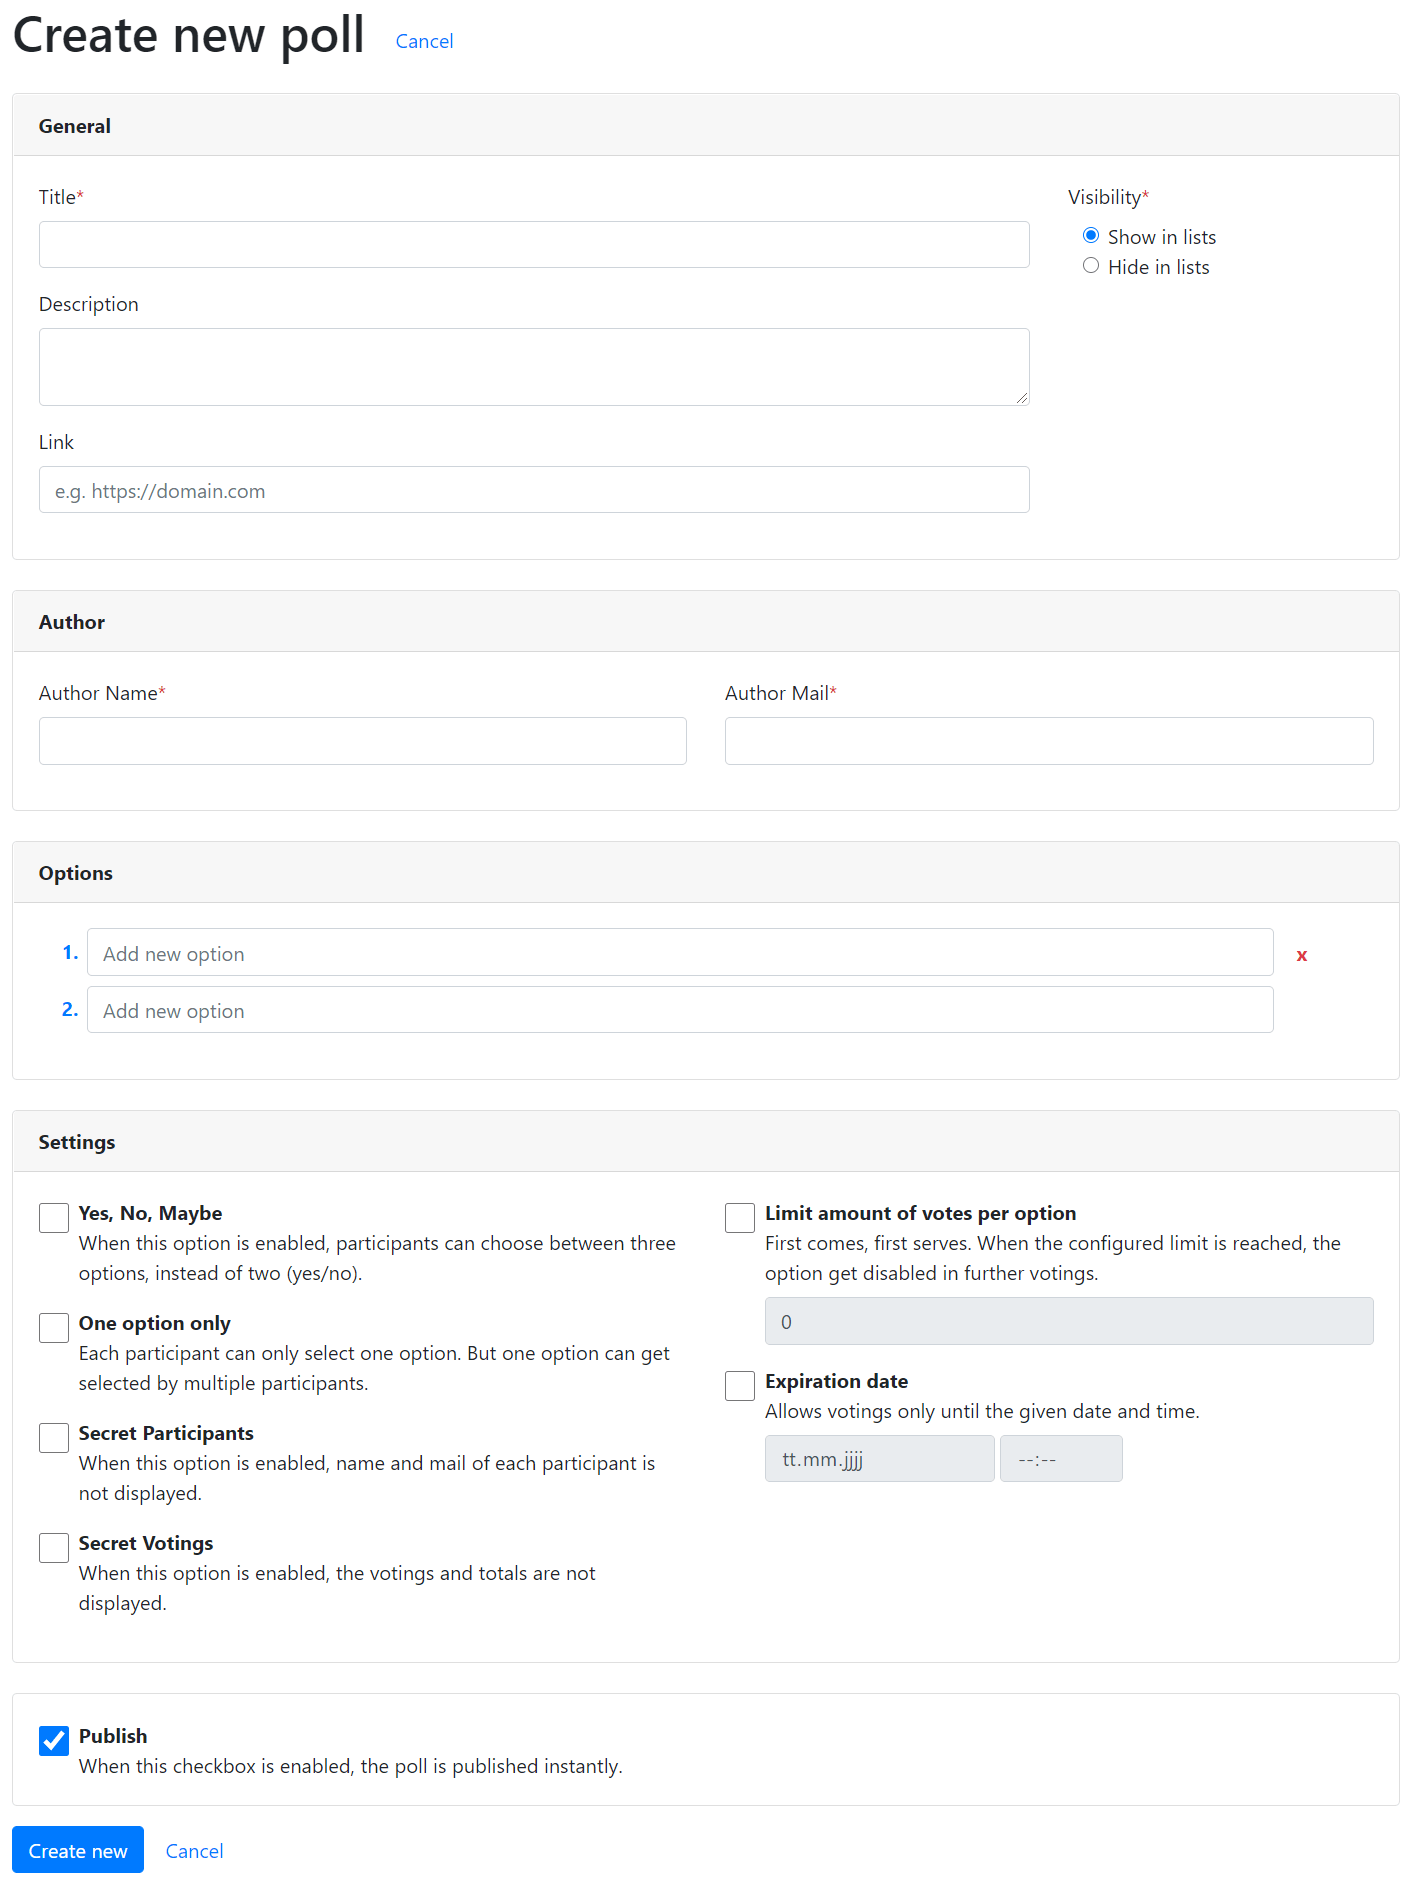
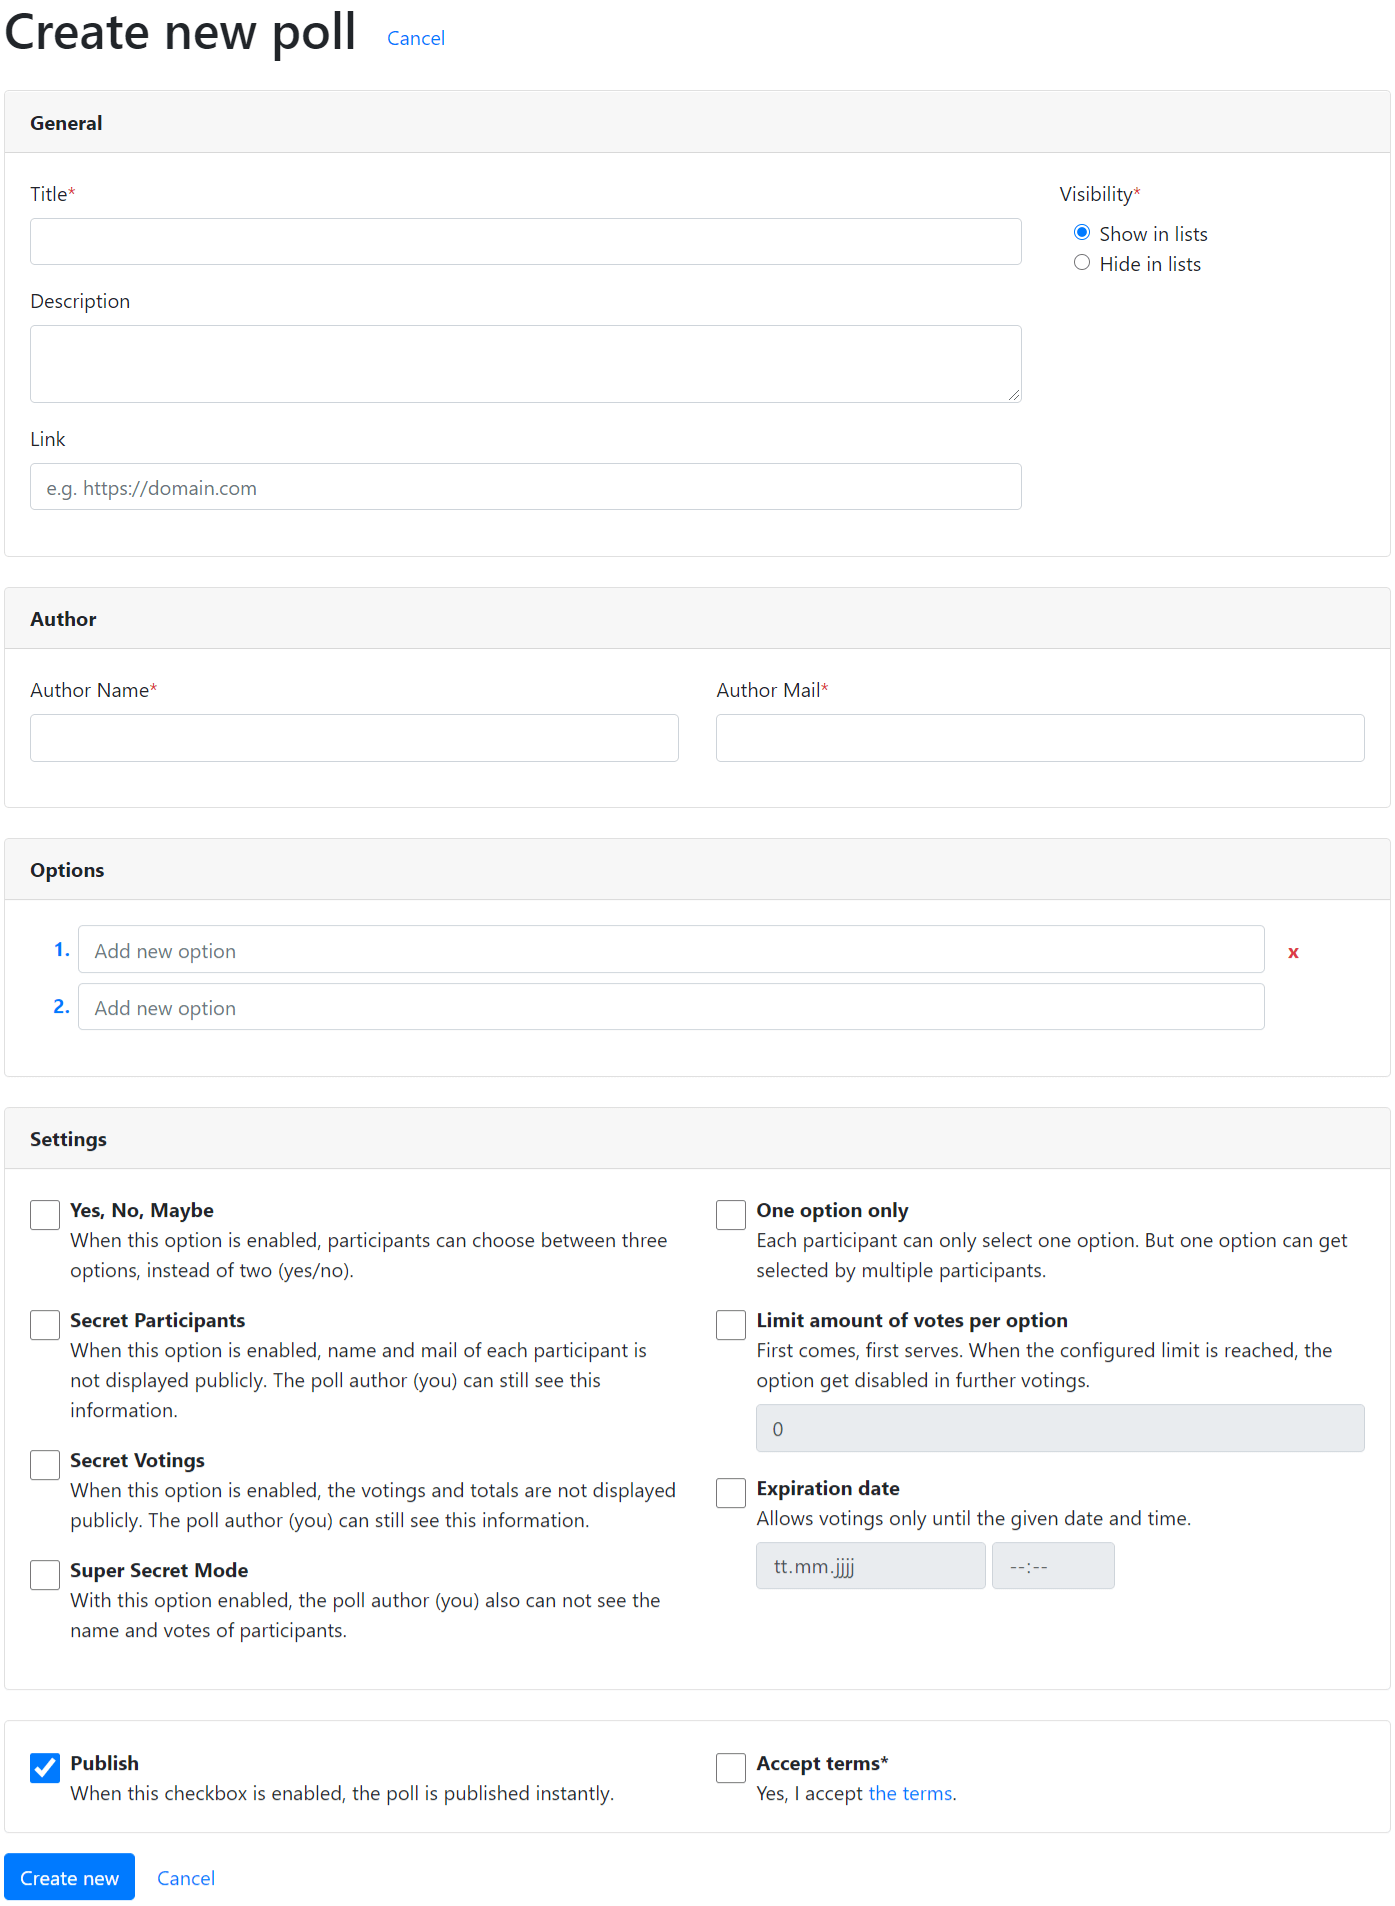
[FEATURE] Add new poll setting "Super Secret Mode"
When enabled, also the poll author (and admins) can not see the name of participants and their votes.

- Added new setting "setting_super_secret_mode" to model, TCA and SQL
- Moved "settingOneOptionOnly" to right column
- When "Super Secret Mode" is on, both secret settings, have to be true as well
    - Added new JS module "force-checked" to auto enable/disable related checkboxes
    - Added validation (Extbase)
- Added display condition to "votes" IRRE field in backend, to hide votes when "setting_super_secret_mode" is 1
- Adjusted notice alert box in show action
- Added new icon in list action, when settingSuperSecretMode is enabled
    - new CSS class ".icon-red"

diff --git a/Resources/Private/Partials/Poll/FormFields.html b/Resources/Private/Partials/Poll/FormFields.html
@@ -107,17 +107,6 @@
 							<f:translate key="poll.settingTristateCheckbox.description" />
 						</label>
 					</div>
-
-					<div class="form-check mb-3">
-						<f:form.checkbox property="settingOneOptionOnly" value="1" checked="{poll.settingOneOptionOnly} == 1" class="form-check-input mr-3 larger" id="t3oodle-poll-settingOneOptionOnly" />
-						<label class="form-check-label" for="t3oodle-poll-settingOneOptionOnly">
-							<strong><f:translate key="poll.settingOneOptionOnly.title" /></strong>
-							<f:if condition="{poll.votes -> f:count()} > 0"> <span class="badge badge-warning mx-2 text-uppercase"><f:translate key="label.caution" /></span></f:if>
-							<br>
-							<f:translate key="poll.settingOneOptionOnly.description" />
-						</label>
-					</div>
-
 					<div class="form-check mb-3">
 						<f:form.checkbox property="settingSecretParticipants" value="1" checked="{poll.settingSecretParticipants} == 1" class="form-check-input mr-3 larger" id="t3oodle-poll-settingSecretParticipants" />
 						<label class="form-check-label" for="t3oodle-poll-settingSecretParticipants">
@@ -132,8 +121,26 @@
 							<f:translate key="poll.settingSecretVotings.description" />
 						</label>
 					</div>
+					<div class="form-check mb-3">
+						<f:form.checkbox property="settingSuperSecretMode" value="1" checked="{poll.settingSuperSecretMode} == 1" class="form-check-input mr-3 larger" id="t3oodle-poll-settingSuperSecretMode" data="{'force-checked':'#t3oodle-poll-settingSecretParticipants, #t3oodle-poll-settingSecretVotings'}" />
+						<label class="form-check-label" for="t3oodle-poll-settingSuperSecretMode">
+							<strong><f:translate key="poll.settingSuperSecretMode.title" /></strong><br>
+							<f:translate key="poll.settingSuperSecretMode.description" />
+
+							<f:render partial="FormFieldErrors" arguments="{for: 'poll.settingSuperSecretMode'}" />
+						</label>
+					</div>
 				</div>
 				<div class="col-md-6">
+					<div class="form-check mb-3">
+						<f:form.checkbox property="settingOneOptionOnly" value="1" checked="{poll.settingOneOptionOnly} == 1" class="form-check-input mr-3 larger" id="t3oodle-poll-settingOneOptionOnly" />
+						<label class="form-check-label" for="t3oodle-poll-settingOneOptionOnly">
+							<strong><f:translate key="poll.settingOneOptionOnly.title" /></strong>
+							<f:if condition="{poll.votes -> f:count()} > 0"> <span class="badge badge-warning mx-2 text-uppercase"><f:translate key="label.caution" /></span></f:if>
+							<br>
+							<f:translate key="poll.settingOneOptionOnly.description" />
+						</label>
+					</div>
 					<div class="form-check mb-3">
 						<f:form.checkbox name="enableSettingMaxVotesPerOption" value="1" checked="{poll.settingMaxVotesPerOption} > 0" class="form-check-input mr-3 larger" id="t3oodle-poll-enableSettingMaxVotesPerOption" />
 						<label class="form-check-label" for="t3oodle-poll-enableSettingMaxVotesPerOption">

diff --git a/Resources/Private/Partials/Poll/Voting.html b/Resources/Private/Partials/Poll/Voting.html
@@ -11,16 +11,24 @@
                 <div class="alert alert-info">
                     <strong class="d-block">
                         <t3oodle:svg class="mx-1 alert-info" path="Icons/user-secret-solid.svg" />
-                        <f:translate key="label.secret.title" />
+                        <f:variable name="suffix"><f:if condition="{poll.settingSuperSecretMode}"><f:translate key="label.super" /> </f:if></f:variable>
+                        <f:translate key="label.secret.title" arguments="{0 : '{suffix}'}" />
                     </strong>
-                    <f:if condition="{poll.settingSecretVotings} && {poll.settingSecretParticipants}">
-                        <f:then><f:translate key="label.secret.all" /></f:then>
+                    <f:if condition="{poll.settingSuperSecretMode}">
+                        <f:then>
+                            <f:translate key="label.secret.superSecretMode" />
+                        </f:then>
                         <f:else>
-                            <f:if condition="{poll.settingSecretVotings}">
-                                <f:translate key="label.secret.votings" />
-                            </f:if>
-                            <f:if condition="{poll.settingSecretParticipants}">
-                                <f:translate key="label.secret.participants" />
+                            <f:if condition="{poll.settingSecretVotings} && {poll.settingSecretParticipants}">
+                                <f:then><f:translate key="label.secret.all" /></f:then>
+                                <f:else>
+                                    <f:if condition="{poll.settingSecretVotings}">
+                                        <f:translate key="label.secret.votings" />
+                                    </f:if>
+                                    <f:if condition="{poll.settingSecretParticipants}">
+                                        <f:translate key="label.secret.participants" />
+                                    </f:if>
+                                </f:else>
                             </f:if>
                         </f:else>
                     </f:if>

diff --git a/Resources/Private/Templates/Poll/List.html b/Resources/Private/Templates/Poll/List.html
@@ -109,9 +109,18 @@
                         <t3oodle:svg class="mx-1 icon-light" path="Icons/clock-regular.svg"
                                      title="{f:translate(key:'label.pollExpireNotice', arguments:'{0:\'{poll.settingVotingExpiresAt -> f:format.date(format:\"{settings.dateTimeFormat}\")}\'}')}" />
                     </f:if>
-                    <f:if condition="{poll.settingSecretVotings} || {poll.settingSecretParticipants}">
-                        <t3oodle:svg class="mx-1 icon-light" path="Icons/user-secret-solid.svg"
-                                     title="{f:translate(key:'label.pollSecretNotice')}"/>
+
+                    <f:if condition="{poll.settingSuperSecretMode}">
+                        <f:then>
+                            <t3oodle:svg class="mx-1 icon-red" path="Icons/user-secret-solid.svg"
+                                         title="{f:translate(key:'label.pollSuperSecretNotice')}"/>
+                        </f:then>
+                        <f:else>
+                            <f:if condition="{poll.settingSecretVotings} || {poll.settingSecretParticipants}">
+                                <t3oodle:svg class="mx-1 icon-light" path="Icons/user-secret-solid.svg"
+                                             title="{f:translate(key:'label.pollSecretNotice')}"/>
+                            </f:if>
+                        </f:else>
                     </f:if>
                 </f:section>
             </td>

diff --git a/Resources/Public/JavaScript/t3oodle/force-checked.js b/Resources/Public/JavaScript/t3oodle/force-checked.js
@@ -1,0 +1,34 @@
+'use strict';
+var tx_t3oodle = tx_t3oodle || {};
+
+tx_t3oodle._applyForceChecked = function (masterCheckbox, isInit) {
+  var slaveCheckboxes = document.querySelectorAll(masterCheckbox.dataset.forceChecked);
+  for (var i = 0; i < slaveCheckboxes.length; i++) {
+    var slaveCheckbox = slaveCheckboxes[i];
+    if (masterCheckbox.checked) {
+      slaveCheckbox.checked = true;
+    }
+  }
+};
+
+tx_t3oodle['force-checked'] = function (selector) {
+  let items = document.querySelectorAll(selector);
+  for (let i = 0; i < items.length; i++) {
+    let masterCheckbox = items[i];
+    masterCheckbox.addEventListener('change', function (event) {
+      tx_t3oodle._applyForceChecked(event.target);
+    });
+    tx_t3oodle._applyForceChecked(masterCheckbox, true);
+
+    let slaveCheckboxes = document.querySelectorAll(masterCheckbox.dataset.forceChecked);
+    for (let i2 = 0; i2 < slaveCheckboxes.length; i2++) {
+      let slaveCheckbox = slaveCheckboxes[i2];
+      slaveCheckbox.addEventListener('change', function (event) {
+        if (!event.target.checked && masterCheckbox.checked) {
+          masterCheckbox.checked = false;
+        }
+      });
+    }
+  }
+};
+

diff --git a/Resources/Public/JavaScript/t3oodle.js b/Resources/Public/JavaScript/t3oodle.js
@@ -36,6 +36,7 @@ var tx_t3oodle = {
     this.loadScriptBySelector('confirmation', '*[data-confirm]');
     this.loadScriptBySelector('remember', '*[data-remember]');
     this.loadScriptBySelector('conditional-inputs', 'input[data-bind-disable]');
+    this.loadScriptBySelector('force-checked', 'input[data-force-checked]');
     this.loadScriptBySelector('voting-box', '.t3oodle-voting-checkbox');
     this.loadScriptBySelector('utils-options', '.t3oodle-new-poll-option, .t3oodle-options-per-day', function () {
       tx_t3oodle.loadScriptBySelector('options-simple', '.t3oodle-new-poll-option');

diff --git a/Resources/Public/Stylesheets/t3oodle.css b/Resources/Public/Stylesheets/t3oodle.css
@@ -204,6 +204,9 @@ ol.t3oodle-options-per-day > li:last-child button.t3oodle-poll-option-remove {
 .tx-t3oodle .icon-light {
     color: #888;
 }
+.tx-t3oodle .icon-red {
+    color: var(--red);
+}
 
 .tx-t3oodle .date-group {
     line-height: 1;

diff --git a/Configuration/TCA/tx_t3oodle_domain_model_poll.php b/Configuration/TCA/tx_t3oodle_domain_model_poll.php
@@ -50,7 +50,7 @@ return [
         ],
         'settings' => [
             'showitem' => 'setting_tristate_checkbox, --linebreak--, setting_max_votes_per_option, --linebreak--, ' .
-                'setting_one_option_only, --linebreak--, setting_secret_participants, setting_secret_votings, ' .
+                'setting_one_option_only, --linebreak--, setting_secret_participants, setting_secret_votings, setting_super_secret_mode, ' .
                 '--linebreak--, setting_voting_expires_date, setting_voting_expires_time'
         ],
         'publishing' => [
@@ -271,6 +271,7 @@ return [
         'votes' => [
             'exclude' => true,
             'label' => $ll('votes'),
+            'displayCond' => 'FIELD:setting_super_secret_mode:!=:1',
             'config' => [
                 'type' => 'inline',
                 'foreign_table' => 'tx_t3oodle_domain_model_vote',
@@ -326,6 +327,14 @@ return [
         'setting_secret_votings' => [
             'exclude' => true,
             'label' => $ll('setting_secret_votings'),
+            'config' => [
+                'type' => 'check',
+                'default' => 0
+            ],
+        ],
+        'setting_super_secret_mode' => [
+            'exclude' => true,
+            'label' => $ll('setting_super_secret_mode'),
             'config' => [
                 'type' => 'check',
                 'default' => 0

diff --git a/Classes/Domain/Permission/PollPermission.php b/Classes/Domain/Permission/PollPermission.php
@@ -13,7 +13,6 @@ use FGTCLB\T3oodle\Utility\SettingsUtility;
 use FGTCLB\T3oodle\Utility\TranslateUtility;
 use FGTCLB\T3oodle\Utility\UserIdentUtility;
 use TYPO3\CMS\Core\Utility\GeneralUtility;
-use TYPO3\CMS\Extbase\DomainObject\AbstractEntity;
 use TYPO3\CMS\Extbase\SignalSlot\Dispatcher;
 
 class PollPermission
@@ -156,13 +155,19 @@ class PollPermission
 
     public function isSeeParticipantsDuringVotingAllowed(Poll $poll): bool
     {
-        $status = !$poll->isSettingSecretParticipants() || $this->userIsAuthor($poll);
+        $status = false;
+        if (!$poll->isSettingSuperSecretMode()) {
+            $status = !$poll->isSettingSecretParticipants() || $this->userIsAuthor($poll);
+        }
         return $this->dispatch(__METHOD__, $status, $poll);
     }
 
     public function isSeeVotesDuringVotingAllowed(Poll $poll): bool
     {
-        $status = !$poll->isSettingSecretVotings() || $this->userIsAuthor($poll);
+        $status = false;
+        if (!$poll->isSettingSuperSecretMode()) {
+            $status = !$poll->isSettingSecretVotings() || $this->userIsAuthor($poll);
+        }
         return $this->dispatch(__METHOD__, $status, $poll);
     }
 

diff --git a/Classes/Domain/Model/Poll.php b/Classes/Domain/Model/Poll.php
@@ -101,6 +101,11 @@ class Poll extends AbstractEntity
     protected $settingSecretVotings = false;
 
     /**
+     * @var bool Note: When Super Secret Mode is true, both previous secret settings are true as well
+     */
+    protected $settingSuperSecretMode = false;
+
+    /**
      * @var \DateTime|null
      */
     protected $settingVotingExpiresDate;
@@ -340,6 +345,16 @@ class Poll extends AbstractEntity
     public function setSettingSecretVotings(bool $settingSecretVotings): void
     {
         $this->settingSecretVotings = $settingSecretVotings;
+    }
+
+    public function isSettingSuperSecretMode(): bool
+    {
+        return $this->settingSuperSecretMode;
+    }
+
+    public function setSettingSuperSecretMode(bool $settingSuperSecretMode): void
+    {
+        $this->settingSuperSecretMode = $settingSuperSecretMode;
     }
 
     public function getSettingVotingExpiresDate(): ?\DateTime

diff --git a/Classes/Domain/Validator/CustomPollValidator.php b/Classes/Domain/Validator/CustomPollValidator.php
@@ -227,6 +227,14 @@ class CustomPollValidator extends AbstractValidator
                 );
             }
         }
+        if ($value->isSettingSuperSecretMode() &&
+            (!$value->isSettingSecretParticipants() || !$value->isSettingSecretVotings())
+        ) {
+            $isValid = false;
+            $this->result->forProperty('settingSuperSecretMode')->addError(
+                new Error(TranslateUtility::translate('validation.1599729001'), 1599729001)
+            );
+        }
         return $isValid;
     }
 }

diff --git a/Documentation/Usage/CreatingNewPolls.rst b/Documentation/Usage/CreatingNewPolls.rst
@@ -20,7 +20,6 @@ for scheduled polls.
    :width: 250px
    :class: with-shadow
 
-
 General
 ~~~~~~~
 
@@ -114,16 +113,6 @@ Yes, No, Maybe
         :class: with-border
 
 
-.. _oneOptionOnly:
-
-One option only
-"""""""""""""""
-.. container:: table-row
-
-   Description
-      Each participant can only select one option. But one option can get selected by multiple participants.
-
-
 .. _secretParticipants:
 
 Secret Participants
@@ -148,6 +137,28 @@ Secret Votings
 
       .. caution::
          The poll author and system administrators can see the hidden information.
+
+
+.. _superSecretMode:
+
+Super Secret Mode
+"""""""""""""""""
+.. container:: table-row
+
+   Description
+      When this option is enabled, the options **Secret Participants** and **Secret Votings** are also enabled.
+      Additionally, nobody (not even the poll author or admins) can see participant names and votings. Also,
+      in TYPO3 backend, the votes get hidden when this setting is enabled.
+
+
+.. _oneOptionOnly:
+
+One option only
+"""""""""""""""
+.. container:: table-row
+
+   Description
+      Each participant can only select one option. But one option can get selected by multiple participants.
 
 
 .. _limitAmountOfVotesPerOption:
